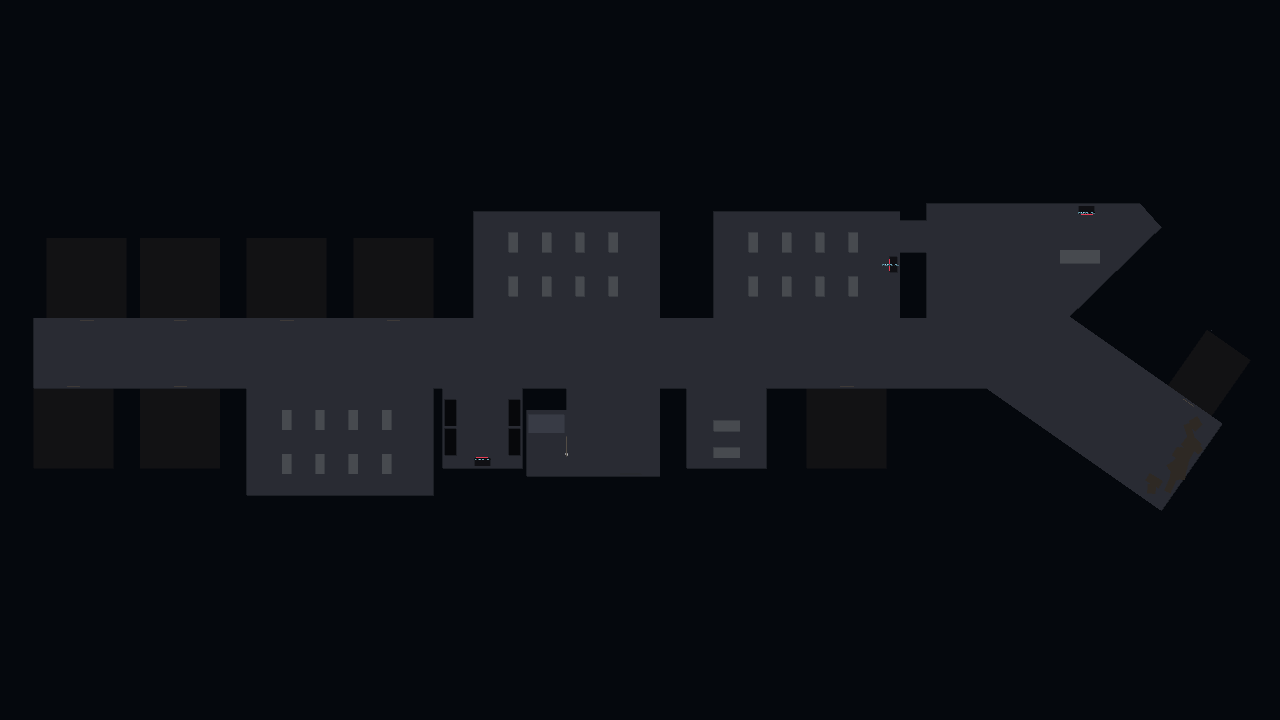
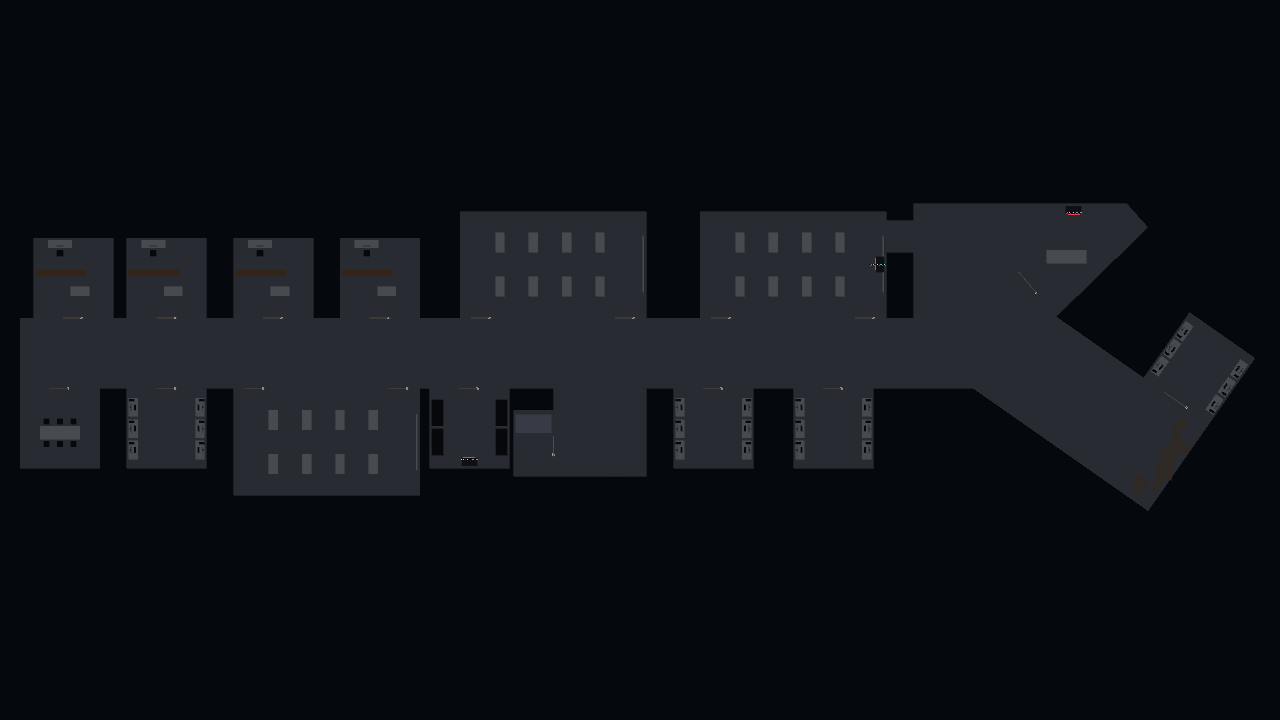
모든 방 개방, 방 종류별 가구 배치
- 교수연구실·회의실·랩실·사선 복도 끝 랩실까지 모든 방(17개)을 들어갈 수 있게 하고 여닫는 문 설치
- 랩실: 양쪽 벽에 책상 3개씩, 책상마다 모니터·키보드·본체
- 교수연구실: 문 앞 접객 탁자, 가운데 책장(안쪽 데스크를 가림), 안쪽 교수 데스크
- 강의실: 학회실 쪽(동쪽) 벽에 칠판, 회의실: 긴 탁자와 의자
- 사선 복도 끝 랩실을 6x6m로 키우고 출입구를 넓힘 (사선 벽 네비메시)
- 스모크 테스트: 문 17개, 새 방 5곳 길찾기 검사 (3회 연속 75항목 PASS)

diff --git a/README.md b/README.md
@@ -120,11 +120,25 @@ DORMANT ──노드1 정제──▶ IDLE ──소음 들림──▶ INVESTIG
                                T1   ▲P  엘베
  T1 서버실(33.7, 8.15)   T2 ML314 교탁(64.5, -6.65)   T3 학회실(79, -10.75)
  P 계단실 시작(38.6, 7.0), +x(로비 문)를 보고 시작   괴물 스폰(57, 0): 셔터1과 셔터2 사이
- 들어갈 수 있는 방: ML304, ML313, ML314, 서버실, 셔터1 옆 랩실, 학회실. 나머지는 잠긴 문.
+ 모든 방에 들어갈 수 있다 (방 17개, 문 17개).
 ```
 
-**방 문** (`room_door.gd`): 모든 방에 문이 있다. 들어갈 수 있는 방 9개 문은 E로 여닫고(소음 0.25), 잠긴 방 8개 문은 E를 누르면 덜컹거린다(소음 0.35).
+**방 문** (`room_door.gd`): 모든 방에 문이 있고 전부 E로 여닫는다(소음 0.25). `locked = true` 로 바꾸면 잠긴 문이 되어 E를 누르면 덜컹거린다(소음 0.35).
 괴물은 닫힌 문 앞에 오면 문을 거칠게 밀어 연다(소음 0.8). 문은 플레이어와 빛·시야는 막지만 괴물 몸은 막지 않는다(충돌 레이어 3).
+
+**방 안 가구** (``ROOMS`` 의 ``kind``):
+
+| 방 | 배치 |
+|---|---|
+| 강의실 ML304·ML313·ML314 | 동쪽을 보는 책상 4줄, 학회실 쪽(동쪽) 벽에 큰 칠판 |
+| 교수연구실 4개 | 문 열면 바로 보이는 접객 탁자, 방 가운데 책장(안쪽 교수 데스크를 가림), 안쪽 교수 데스크·모니터 |
+| 랩실 4개 | 양쪽 벽에 책상 3개씩, 책상마다 모니터·키보드·본체 |
+| 회의실 | 가운데 긴 탁자와 의자 6개 |
+| 서버실 | 양쪽 벽에 서버 랙 2개씩 |
+
+| 랩실 | 교수연구실 | ML314 칠판 |
+|---|---|---|
+| ![](docs/screenshots/room_lab.png) | ![](docs/screenshots/room_prof.png) | ![](docs/screenshots/room_ml314_board.png) |
 
 실제 스캔은 Godot 에디터에서 `reference/scan_viewer.tscn` 으로 볼 수 있다. 스캔 원본(GLB)은 용량과 공개 저장소 문제로 Git에 올리지 않으니 팀 단톡방에서 받아 `reference/scans/` 에 넣는다.
 실제 레벨로 바꿀 때: `Main` 노드의 스크립트를 떼고, `NavRegion` 아래에 모델링된 레벨을 넣고 에디터에서 Bake. **문은 `Doors` 아래에** 두어야 네비메시에서 제외된다 (안 그러면 닫힌 문 자리를 괴물이 영원히 못 지나간다).
